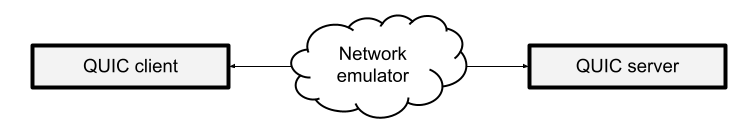
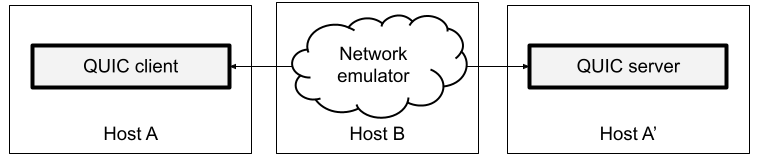
Replaced "we" where possible

diff --git a/diss.tex b/diss.tex
@@ -296,12 +296,12 @@ Nowadays, more and more people have access to the Internet.
 As the scale of the web continues to grow, both companies and researchers look for ways to satisfy ever-increasing market demand to improve the user experience of Internet users.
 Customers expect cheap, high-throughput and low latency Internet connections.
 However, in the last decade, several trends have emerged.
-For example, in recent years, we observed a proliferation of mobile devices -- at the time of writing, around $92.6\%$ of Internet users used mobile devices to connect to the Internet~\cite{bib_number_of_mobile_users}.
-Furthermore, we see the changing patterns of web development.
+For example, in recent years, mobile devices proliferated -- at the time of writing, around $92.6\%$ of Internet users used mobile devices to connect to the Internet~\cite{bib_number_of_mobile_users}.
+Furthermore, there are emerging new patterns in web development.
 In particular, usual websites nowadays contain multiple embedded objects of various sizes (e.g. from \texttt{JavaScript} or \texttt{CSS} files to numerous images and videos)\cite{bib_Netdev_0x13_QUIC_Tutorial}.
 But, these websites look entirely different from the simple, single document \texttt{HTML} websites used in the early days of the Internet~\cite{RudmanRiaan2016DW3o}.
 Hence, the changing constraints and networking trends encourage us to re-evaluate past protocols.
-By using innovative solutions, we can continue improving the performance of the Internet. 
+Innovative solutions can further improve the performance of the Internet. 
 One of such ideas is \texttt{QUIC} -- the new transport layer protocol.
 
 \section{The motivation of the Project}
@@ -1107,12 +1107,12 @@ To understand the \texttt{Flame Graphs}, it is worth looking at the simple examp
     \end{figure}
 
 Here y-axis of \texttt{Flame Graphs} represents the depth and frames of the call stack~\cite{CPU_Flame_graphs}.
-For instance, we can see in Figure~\ref{fig:Flame_Graphs_explanation} that \textbf{function\_a()} invoked function calls \textbf{function\_b()} and \textbf{function\_g()}. 
+For instance, as shown in Figure~\ref{fig:Flame_Graphs_explanation}, \textbf{function\_a()} invoked function calls \textbf{function\_b()} and \textbf{function\_g()}. 
 However, an important point to mention is that x-axis of \texttt{Flame Graphs} does not represent time~\cite{CPU_Flame_graphs}.
 Instead, function names are sorted alphabetically along the x-axis, and it represents the approximate percentage of stack frames that were in the call stack~\cite{CPU_Flame_graphs}.
-Hence, by looking at Figure~\ref{fig:Flame_Graphs_explanation} we can tell that \textbf{function\_b()} and its \enquote{children} functions spent more time on CPU than \textbf{function\_g()} and its corresponding functions but we can not tell the relative order in which these functions were called.
+Hence, by looking at Figure~\ref{fig:Flame_Graphs_explanation} it is possible to tell that \textbf{function\_b()} and its \enquote{children} functions spent more time on CPU than \textbf{function\_g()} and its corresponding functions but it is impossible to tell the relative order in which these functions were called.
 Furthermore, in order to better identify the most frequent function calls, stack frames sampled at different times can be merged if they have a shared ancestor~\cite{CPU_Flame_graphs}.
-As a result, by looking at Figure~\ref{fig:Flame_Graphs_explanation} we can not differentiate whether or not function calls \textbf{function\_b()} and \textbf{function\_g()} did not interleave.
+As a result, by looking at Figure~\ref{fig:Flame_Graphs_explanation} one can not differentiate whether or not function calls \textbf{function\_b()} and \textbf{function\_g()} did not interleave.
 
 In the standard \texttt{Flame Graph}, different frames are coloured differently in order to increase visual contrast between the neighbouring cells in the diagram~\cite{CPU_Flame_graphs} (see yellow, orange and red rows in Figure~\ref{fig:perf_results_of_h2load}).
 
@@ -1566,11 +1566,11 @@ To measure \texttt{QUIC} performance under different conditions, a network emula
 \simon{TODO: add information about the capacities of Ethernet links}
 
 
-    In the ideal scenario, we might want to use three dedicated machines for performance measurements, as shown in the previous section.
+    In the ideal scenario, it might be the best to use three dedicated machines for performance measurements, as shown in the previous section.
     However, I decided to use a slightly different physical layout (see Figure~\ref{fig:Physical_testing_environment}).
     In this environment, one machine (A) hosts client-server pair, while another computer (B) acts as a network emulator.
-    The physical configuration differs from the logical configuration because I wanted to replicate testing conditions under which Yang et al. performed throughput measurements of \texttt{QUIC}~\cite{Making_QUIC_Quicker}.
-    One advantage of having both server and client running on the same machine is that the shared system clock can perform measurements more accurately. 
+    The physical configuration differs from the logical configuration because I wanted to replicate \texttt{QUIC} testing conditions used in other experiments~\cite{Making_QUIC_Quicker}.
+    One advantage of having both server and client running on the same machine is that the common system clock can perform measurements more accurately. 
     
 
     \begin{figure}[ht]
@@ -1580,7 +1580,7 @@ To measure \texttt{QUIC} performance under different conditions, a network emula
     \label{fig:Physical_testing_environment}
     \end{figure}
     
-    As we can see from Figure~\ref{fig:Physical_testing_environment}, both \texttt{QUIC} client and server operate on different virtual network namespaces which do not have shared point-to-point links.
+    As shown in Figure~\ref{fig:Physical_testing_environment}, both \texttt{QUIC} client and server operate on different virtual network namespaces which do not have shared point-to-point links.
     Client and server are assigned different network subnets.
     Subnets use private \texttt{IPv4} addresses~\cite{rfc1918}.
     The purpose of these addresses is to prevent experiments and the college network from interfering with one another.
@@ -1633,7 +1633,7 @@ To measure \texttt{QUIC} performance under different conditions, a network emula
 \subsection{IP Version}
 
 To make results comparable with older studies, I decided to disable IPv6 in the testing environment.
-By specifying a particular IP version, we reduce the number of variable parameters.
+The number of variable parameters is reduced by specifying a particular IP version.
 Fortunately, at the time of writing, according to Google's IPv6 adoption tracker~\cite{IPv6_Adoption_Statistics}, only a third of all Internet users (30-35 \% to be precise) use IPv6 to connect to Google's services.
 Hence, analysis involving IPv4 is still relevant today.
 
@@ -1881,7 +1881,7 @@ This interesting effect could be explained by the fact that there is an associat
 \simon{TODO: explain these effects}
 
 \simon{TODO: context/queue switches? for concurrent streams penalise the transfer of large concurrent files, but with small files, these switches are more frequent.
-With a large number of clients, we can offer the server a variety of packets it can process}
+With a large number of clients, one can offer the server a variety of packets it can process}
 
 \simon{According to \url{https://fasterdata.es.net/performance-testing/network-troubleshooting-tools/iperf/multi-stream-iperf3/}, \texttt{iperf3} is a single threaded application so this might be a limiting testing factor}
 
